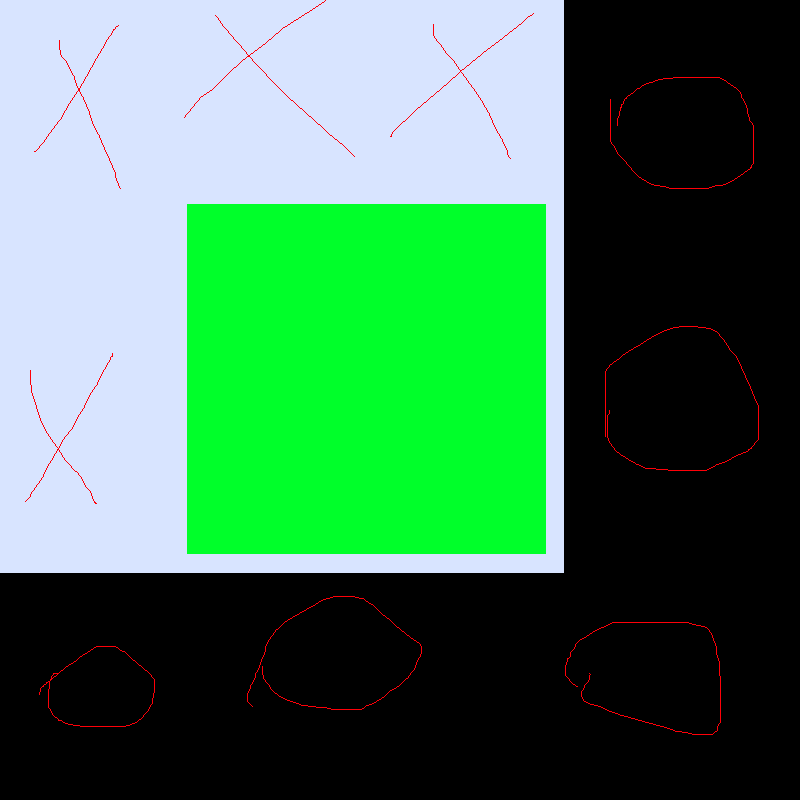
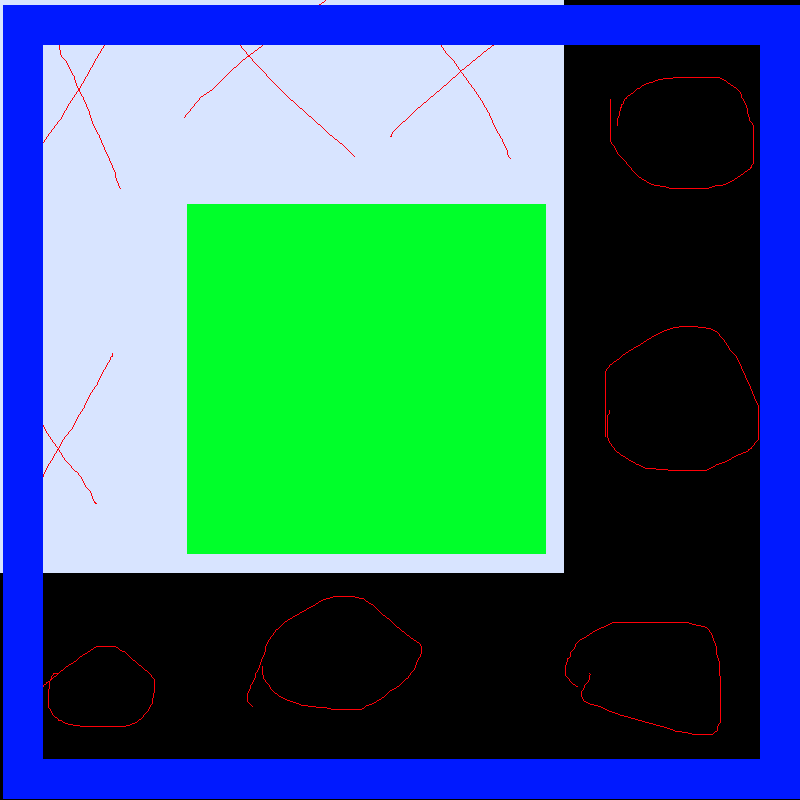
Got rotations working

Changed region(s): [[0.0, 0.0, 1.0, 1.0]]

diff --git a/_build/WaveFunctionCollapseTile.cpp b/_build/WaveFunctionCollapseTile.cpp
@@ -26,18 +26,6 @@ namespace jothly
 	{
 		if (possibilities.size() <= 0) return;
 
-		/*std::string reverseNorthCode = GetNorthCode();
-		std::reverse(reverseNorthCode.begin(), reverseNorthCode.end());
-
-		std::string reverseEastCode = GetEastCode();
-		std::reverse(reverseEastCode.begin(), reverseEastCode.end());
-
-		std::string reverseSouthCode = GetSouthCode();
-		std::reverse(reverseSouthCode.begin(), reverseSouthCode.end());
-
-		std::string reverseWestCode = GetWestCode();
-		std::reverse(reverseWestCode.begin(), reverseWestCode.end());*/
-
 		std::vector<int> indexesToRemove = std::vector<int>(possibilities.size());
 		int numIndexesToRemove = 0;
 
@@ -70,7 +58,23 @@ namespace jothly
 
 	void WaveFunctionCollapseTile::LoadPossibilities(std::vector<WaveFunctionCollapseTile>& allPossibilities)
 	{
-		possibilities = std::vector<WaveFunctionCollapseTile>(allPossibilities);
+		possibilities = std::vector<WaveFunctionCollapseTile>();
+		possibilities.reserve(allPossibilities.size() * 4);
+
+		for(int i = 0; i < allPossibilities.size(); i++)
+		{
+			possibilities.push_back(allPossibilities[i]);
+			possibilities.back().SetRotation(TileRotation::ROT0);
+
+			possibilities.push_back(allPossibilities[i]);
+			possibilities.back().SetRotation(TileRotation::ROT90);
+
+			possibilities.push_back(allPossibilities[i]);
+			possibilities.back().SetRotation(TileRotation::ROT180);
+
+			possibilities.push_back(allPossibilities[i]);
+			possibilities.back().SetRotation(TileRotation::ROT270);
+		}
 	}
 
 
@@ -92,7 +96,7 @@ namespace jothly
 	{
 		if (texture == nullptr) return;
 
-		Vector2 origin = (texture->GetSize()) / 2.0f;
+		Vector2 origin = size / 2.0f;
 		float rot = 0;
 
 		switch (tileRotation)
@@ -116,14 +120,14 @@ namespace jothly
 			}
 		}
 
-		TextureDrawing::DrawTexture(*texture, topLeftPos, origin, size, rot);
+		TextureDrawing::DrawTexture(*texture, topLeftPos, origin, size, -rot);
 	}
 
 
 	bool WaveFunctionCollapseTile::CompareCodes(TileDirection dir, std::string otherCode)
 	{
 		std::reverse(otherCode.begin(), otherCode.end());
-		return dirCodes[(int)dir] == otherCode;
+		return GetDirCodeRotated(dir) == otherCode;
 	}
 
 

diff --git a/_build/WaveFunctionCollapseTile.h b/_build/WaveFunctionCollapseTile.h
@@ -27,19 +27,19 @@ namespace jothly
 	struct WaveFunctionCollapseTile
 	{
 		private:
-		void Copy(const WaveFunctionCollapseTile& other);
 
 		// What tiles this could possibly collapse down to
 		std::vector<WaveFunctionCollapseTile> possibilities = std::vector<WaveFunctionCollapseTile>();
+		TileRotation tileRotation = TileRotation::ROT0;
 
 		bool collapsed = false;
 		int x = -1;
 		int y = -1;
 
+		void Copy(const WaveFunctionCollapseTile& other);
 
 		public:
 		Texture* texture = nullptr;
-		TileRotation tileRotation = TileRotation::ROT0;
 
 		union // These are based on 0 rotation!
 		{
@@ -59,13 +59,14 @@ namespace jothly
 
 		WaveFunctionCollapseTile(const WaveFunctionCollapseTile& other) { Copy(other); }
 
-		WaveFunctionCollapseTile(Texture* _texture, TileRotation _tileRotation, std::string _upCode, std::string _rightCode, std::string _downCode, std::string _leftCode) :
-			texture(_texture), tileRotation(_tileRotation), upCode(_upCode), rightCode(_rightCode), downCode(_downCode), leftCode(_leftCode) {}
+		WaveFunctionCollapseTile(Texture* _texture, std::string _upCode, std::string _rightCode, std::string _downCode, std::string _leftCode) :
+			texture(_texture), upCode(_upCode), rightCode(_rightCode), downCode(_downCode), leftCode(_leftCode) {}
 
 		~WaveFunctionCollapseTile() {}
 
 
 		void SetCoordinates(int _x, int _y) { x = _x; y = _y; }
+		void SetRotation(TileRotation _tileRotation) { tileRotation = _tileRotation; }
 
 
 		std::string GetDirCodeRotated(TileDirection dir );
@@ -74,6 +75,8 @@ namespace jothly
 		std::string GetEastCode();
 		std::string GetSouthCode();
 		std::string GetWestCode();
+
+		TileRotation GetRotation() { return tileRotation; }
 
 		int GetEntropy();
 		bool GetIsCollapsed() { return collapsed; }

diff --git a/_build/game.cpp b/_build/game.cpp
@@ -16,12 +16,14 @@
 #include <time.h>
 #include <stdio.h>
 #include <stdlib.h>
+#include "TextureDrawing.h"
 
 
 using namespace jothly;
 
 
 GameObject testObj = GameObject("TestObj", Vector3(0, 0, 0), Quaternion::Quaternion2D(0), Vector3(1, 1));
+Texture tex;
 
 
 void Update()
@@ -33,6 +35,8 @@ void Update()
 void Draw()
 {
 	testObj.Draw();
+	//TextureDrawing::DrawTexture(tex, Vector2(0, 0), Vector2(tex.GetWidth() / 2, tex.GetHeight() / 2), Vector2(100, 100), 45);
+
 }
 
 
@@ -53,7 +57,7 @@ void Init()
 	);*/
 
 	std::cout << std::filesystem::current_path() << std::endl;
-	Texture tex = Texture(con::RESOURCE_PATH + "test.png");
+	tex = Texture(con::RESOURCE_PATH + "test.png");
 	Texture gameObjectOrigin = Texture(con::RESOURCE_PATH + "smallBlackDot.png");
 	
 	Texture ld = Texture(con::RESOURCE_PATH + "ld.png");
@@ -63,16 +67,13 @@ void Init()
 
 	std::vector<WaveFunctionCollapseTile> templateTiles = std::vector<WaveFunctionCollapseTile>
 	{
-		WaveFunctionCollapseTile(&ld, TileRotation::ROT0, "OXX", "XXO", "OOO", "OOO"),
-		WaveFunctionCollapseTile(&lu, TileRotation::ROT0, "OOO", "OXX", "XXO", "OOO"),
-		WaveFunctionCollapseTile(&ru, TileRotation::ROT0, "OOO", "OOO", "OXX", "XXO"),
-		WaveFunctionCollapseTile(&rd, TileRotation::ROT0, "XXO", "OOO", "OOO", "OXX")
+		WaveFunctionCollapseTile(&ld, "OXX", "XXO", "OOO", "OOO"),
 	};
 
 	WaveFunctionCollapseGrid* wfcGrid = 
 		testObj.CreateComponent<WaveFunctionCollapseGrid>()->Init(templateTiles, Vector2(0, 0), Vector2(GetScreenWidth(), GetScreenHeight()));
 
-	wfcGrid->GenerateInitialGrid(8, 8);
+	wfcGrid->GenerateInitialGrid(4, 4);
 	wfcGrid->Run();
 
 	/*for (int x = 0; x < wfcGrid->GetNumCellsX(); x++)
